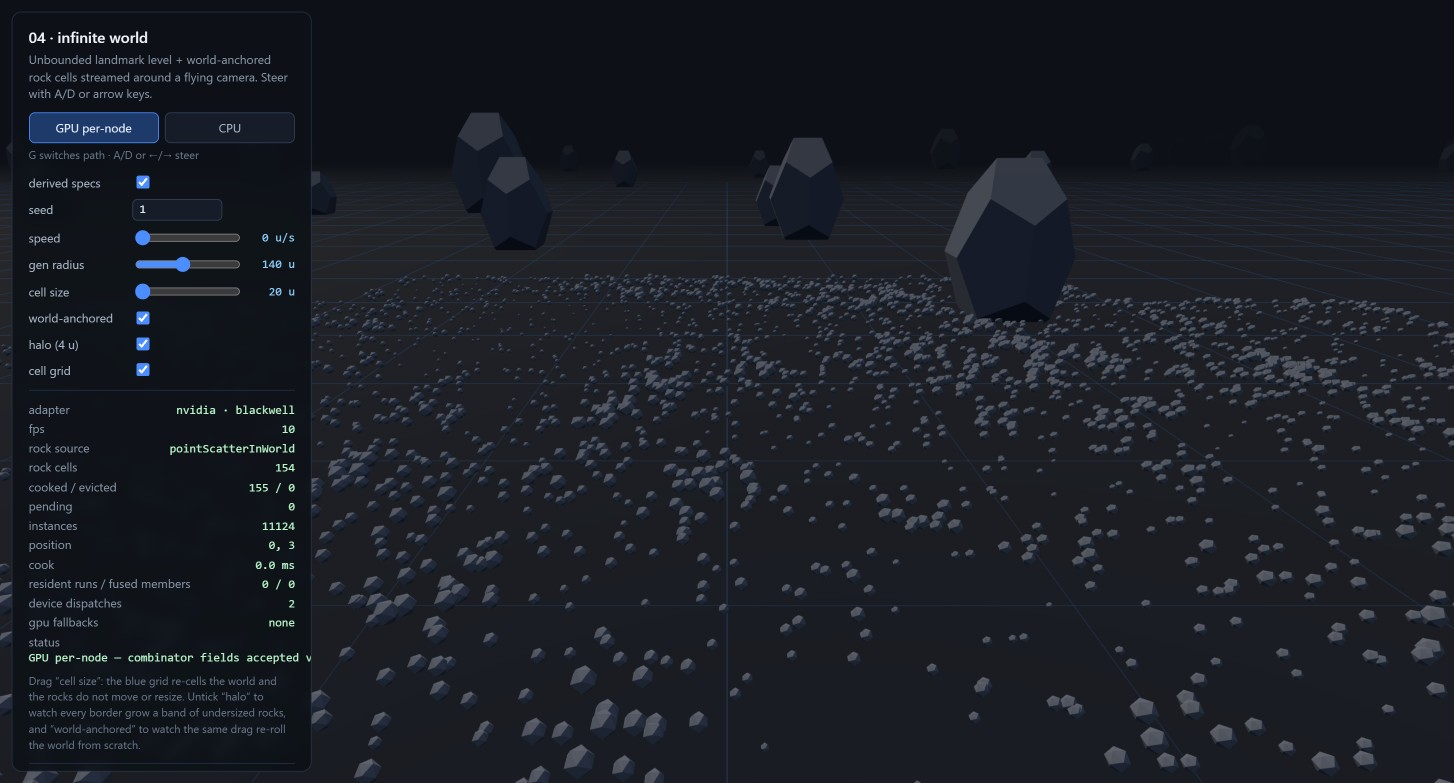
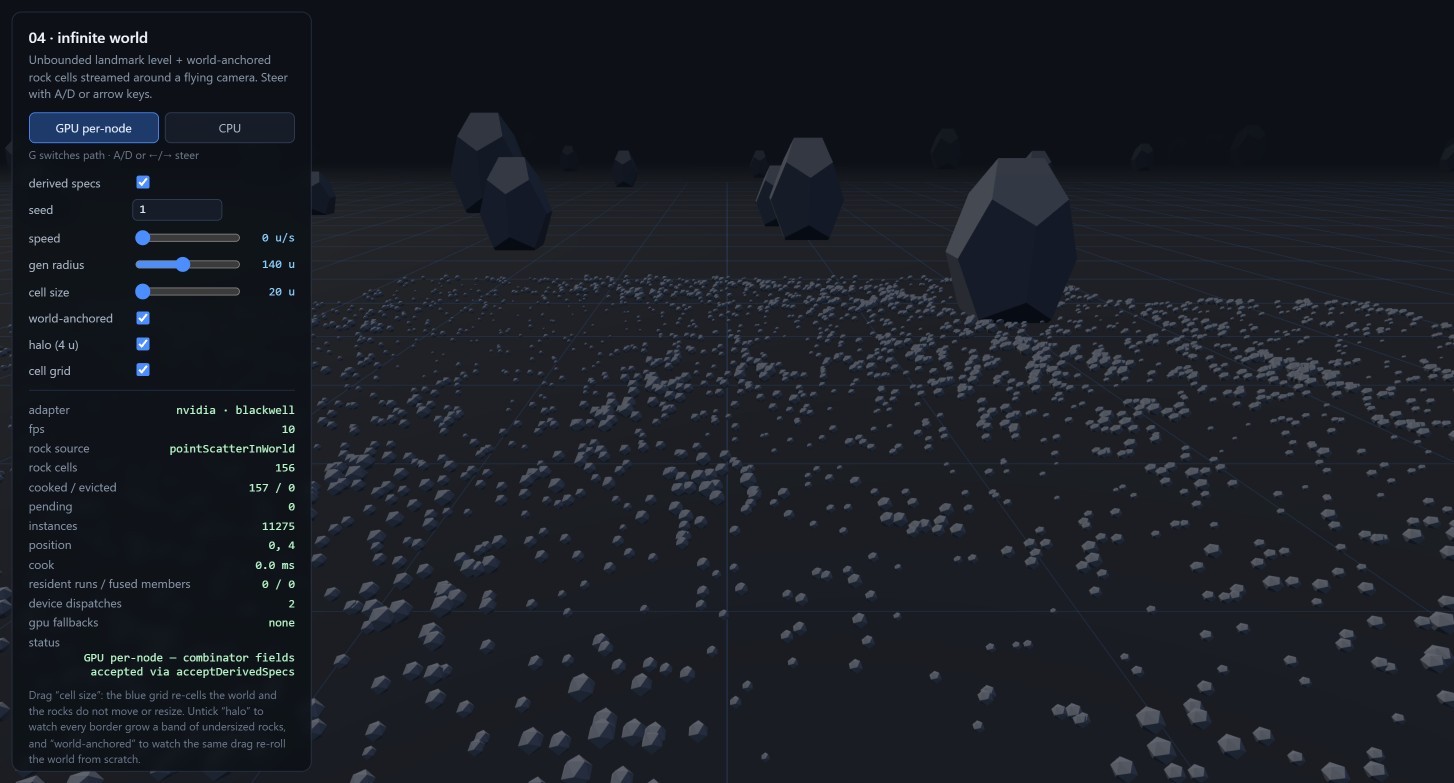
overlay: let stat values wrap instead of clipping mid-word
flex-shrink 0 pinned the value span at max-content, so overflow-wrap
could never engage and long status strings clipped at the panel edge —
visible in demo 04's committed capture ("accepted v"), recaptured whole.

Claude-Session: https://claude.ai/code/session_01JViXf3bcPP4AE9okdLAehD

diff --git a/examples/shared/overlay.ts b/examples/shared/overlay.ts
@@ -49,7 +49,7 @@ function injectStyles(): void {
    clipping the label. */
 .pcg-overlay .pcg-stat { display: flex; flex-wrap: wrap; justify-content: space-between; align-items: baseline; gap: 0 10px; margin: 2px 0; }
 .pcg-overlay .pcg-stat span:first-child { color: #8b98ab; font-size: 12px; flex: 0 1 auto; min-width: 0; }
-.pcg-overlay .pcg-stat span:last-child { color: #b8f5c8; font: 12px ui-monospace, monospace; flex: 0 0 auto; margin-left: auto; min-width: 0; text-align: right; overflow-wrap: anywhere; }
+.pcg-overlay .pcg-stat span:last-child { color: #b8f5c8; font: 12px ui-monospace, monospace; flex: 0 1 auto; margin-left: auto; min-width: 0; text-align: right; overflow-wrap: anywhere; }
 .pcg-overlay details { margin-top: 10px; border-top: 1px solid #223047; padding-top: 8px; }
 .pcg-overlay summary { cursor: pointer; color: #aeb9c9; font-size: 12px; user-select: none; }
 .pcg-overlay pre {
